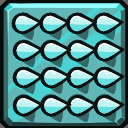
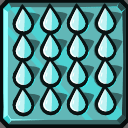
ajout des sprites pour la fonctionnalite PassageSecret

diff --git a/zeldiablo/src/gameLaby/laby/LabyDessin.java b/zeldiablo/src/gameLaby/laby/LabyDessin.java
@@ -22,7 +22,7 @@ public class LabyDessin implements DessinJeu {
     public static int taille=30;
     
     //Création d'une liste d'image
-    private ArrayList<Image> lImages; // murs,floor,hero,trap
+    private ArrayList<Image> lImages; // murs,floor,trap,button,buttonPressed,doorClosed,doorOpen
     private int lancement;
 
     public LabyDessin() {
@@ -32,7 +32,9 @@ public class LabyDessin implements DessinJeu {
     char getChar(int x, int y) {
         char res=VIDE;
         if ((x == lab.getPerso().getX()) && (y == lab.getPerso().getY())) res=PJ;
-        if (lab.getLaby().getMur(x,y)) res=MUR;
+        else if (x==this.lab.getLaby().getActivation().getX() && y==this.lab.getLaby().getActivation().getY()) res =ACTIVATION;
+        else if (x==this.lab.getLaby().getActivation().getPassageX() && y==this.lab.getLaby().getActivation().getPassageY()) res=PASSAGE_SECRET;
+        else if (lab.getLaby().getMur(x,y)) res=MUR;
         return res;
     }
 
@@ -50,6 +52,11 @@ public class LabyDessin implements DessinJeu {
             lImages.add(new Image("/gameLaby/ressources/images/floor.png"));
             lImages.add(new Image("/gameLaby/ressources/images/trap.png"));
             lImages.add(new Image("/gameLaby/ressources/images/hearth.png"));
+            lImages.add(new Image("/gameLaby/ressources/images/button.png"));
+            lImages.add(new Image("/gameLaby/ressources/images/buttonPressed.png"));
+            lImages.add(new Image("/gameLaby/ressources/images/doorClosed.png"));
+            lImages.add(new Image("/gameLaby/ressources/images/doorOpen.png"));
+
             this.lab.getPerso().creerComposantGraphiques();
             lancement++;
         }
@@ -73,6 +80,20 @@ public class LabyDessin implements DessinJeu {
                         break;
                     case VIDE:
                         gc.drawImage(lImages.get(1),i*taille,j*taille,taille,taille);
+                        break;
+                    case PASSAGE_SECRET:
+                        int k;
+                        if (this.lab.getLaby().getActivation().getEtat()) k=7;
+                        else k=6;
+                        gc.drawImage(lImages.get(1),i*taille,j*taille,taille,taille);
+                        gc.drawImage(lImages.get(k),i*taille,j*taille,taille,taille);
+                        break;
+                    case ACTIVATION:
+                        int l;
+                        if (this.lab.getLaby().getActivation().getEtat()) l=5;
+                        else l=4;
+                        gc.drawImage(lImages.get(1),i*taille,j*taille,taille,taille);
+                        gc.drawImage(lImages.get(l),i*taille,j*taille,taille,taille);
                         break;
                     case MUR:
                         gc.drawImage(lImages.get(0),i*taille,j*taille,taille,taille);

diff --git a/zeldiablo/src/gameLaby/laby/Labyrinthe.java b/zeldiablo/src/gameLaby/laby/Labyrinthe.java
@@ -47,6 +47,8 @@ public class Labyrinthe {
      */
     public List<CasePieges> CasePieges = new ArrayList<CasePieges>();
 
+    private Activation activation;
+
     /**
      * retourne la case suivante selon une actions
      *
@@ -101,6 +103,7 @@ public class Labyrinthe {
         // creation labyrinthe vide
         this.murs = new boolean[nbColonnes][nbLignes];
         this.pj = null;
+        PassageSecret passage = null;
 
         // lecture des cases
         String ligne = bfRead.readLine();
@@ -129,6 +132,18 @@ public class Labyrinthe {
                         // ajoute PJ
                         this.pj = new Perso(colonne, numeroLigne);
                         break;
+                    case ACTIVATION:
+                        // pas de mur
+                        this.murs[colonne][numeroLigne] = false;
+                        // ajoute PJ
+                        this.activation = new Activation(colonne, numeroLigne);
+                        break;
+                    case PASSAGE_SECRET:
+                        // pas de mur
+                        this.murs[colonne][numeroLigne] = true;
+                        // ajoute PJ
+                        passage = new PassageSecret(colonne, numeroLigne);
+                        break;
 
                     default:
                         throw new Error("caractere inconnu " + c);
@@ -139,6 +154,8 @@ public class Labyrinthe {
             ligne = bfRead.readLine();
             numeroLigne++;
         }
+        if(this.activation != null && passage!=null)
+            this.activation.setPassageSecret(passage);
 
         // ferme fichier
         bfRead.close();
@@ -207,5 +224,9 @@ public class Labyrinthe {
     public boolean getMur(int x, int y) {
         // utilise le tableau de boolean
         return this.murs[x][y];
+    }
+
+    public Activation getActivation() {
+        return activation;
     }
 }

diff --git a/zeldiablo/src/gameLaby/laby/LabyJeu.java b/zeldiablo/src/gameLaby/laby/LabyJeu.java
@@ -17,7 +17,7 @@ public class LabyJeu implements Jeu {
 
 
     public LabyJeu() throws IOException {
-        this.laby = new Labyrinthe("labySimple/laby2.txt");
+        this.laby = new Labyrinthe("labySimple/labyPassageSecret.txt");
         this.perso = new Perso(laby.pj.x, laby.pj.y);
         System.out.println("PV : "+this.laby.pj.getPv());
     }
@@ -62,6 +62,12 @@ public class LabyJeu implements Jeu {
                 this.laby.CasePieges.get(i).setEtatCasePieges(true);
             } else {
                 this.laby.CasePieges.get(i).setEtatCasePieges(false);
+            }
+        }
+        if (this.laby.getActivation()!=null) {
+            if (this.laby.pj.etrePresent(this.laby.getActivation().getX(), this.laby.getActivation().getY())) {
+                this.laby.getActivation().activer();
+                this.laby.murs[this.laby.getActivation().getPassageX()][this.laby.getActivation().getPassageY()] = false;
             }
         }
         this.perso=this.laby.pj;

diff --git a/zeldiablo/src/gameLaby/laby/Activation.java b/zeldiablo/src/gameLaby/laby/Activation.java
@@ -29,5 +29,12 @@ public class Activation extends Position{
     public boolean getEtat() {
         return this.estActive;
     }
+
+    public int getPassageX(){
+        return this.passageSecret.getX();
+    }
+    public int getPassageY(){
+        return this.passageSecret.getY();
+    }
 }
 
